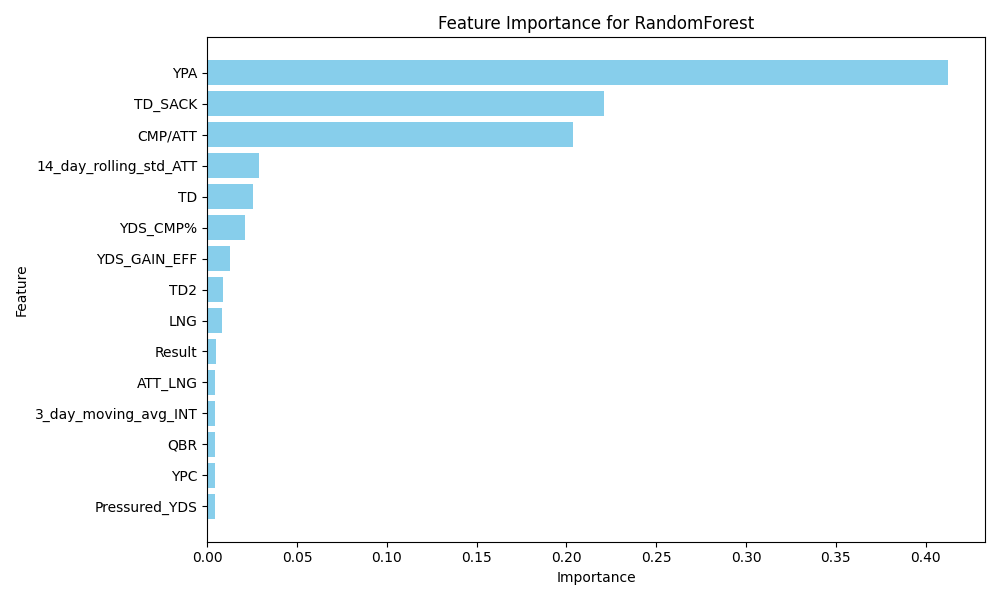
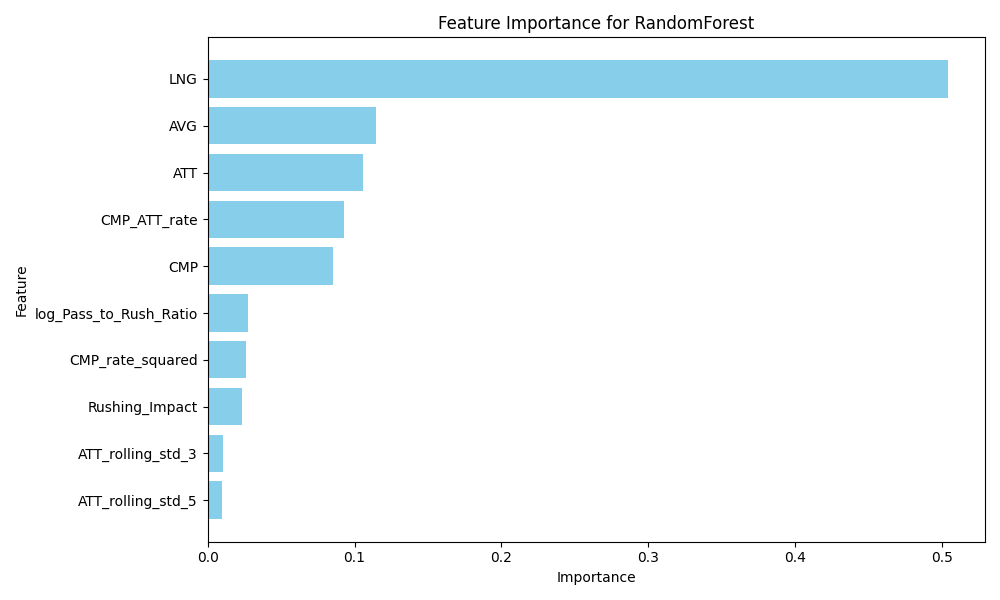
Created QB specific features, further refined xgboost Model

diff --git a/src/model_selection.py b/src/model_selection.py
@@ -4,14 +4,16 @@ import numpy as np
 import matplotlib.pyplot as plt
 
 from sklearn.ensemble import RandomForestRegressor
+from sklearn.feature_selection import RFE
 from sklearn.metrics import mean_squared_error, r2_score, accuracy_score
 from sklearn.model_selection import train_test_split
 from sklearn.preprocessing import StandardScaler
 import joblib
-from src.features import engineer_features
+
+# feature imports
+from src.features.qb_features.yds import add_passing_yds_features
 
 # model imports
-from src.models.linear_regression import train_linear_regression
 from src.models.random_forest import train_random_forest
 from src.models.xgboost import train_xgboost
 
@@ -30,21 +32,28 @@ def preprocess_data(df, target_stat):
     # Removes Data Column but saves it for use in visualization
     date_col = df['Date']
 
-    df = engineer_features(df, target_stat)
+    df['Date'] = pd.to_datetime(df['Date'])
+
+    # Extract date-related features
+    #df['day_of_week'] = df['Date'].dt.dayofweek  # Day of the week (Monday = 0, Sunday = 6)         # Month of the game
+    df['is_weekend'] = df['Date'].dt.dayofweek >= 5  # Boolean for weekend games
+    df['days_since_last_game'] = (df['Date'] - df['Date'].shift(1)).dt.days.fillna(0)  # Time gap between games
+
+    df = add_passing_yds_features(df)
 
     # Drop irrelevant columns
-    df = df.drop(['OPP', 'Date'], axis=1)
-
+    df = df.drop(['Date'], axis=1)
+    
     # Drop rows with NaN values generated by rolling and shifting operations
     df = df.dropna()
-
-    # Handle any remaining infinite or very large values
-    df = df.replace([np.inf, -np.inf], np.nan)  # Replace inf values with NaN
-    df = df.fillna(method='ffill').fillna(method='bfill')
 
     # Target variable and feature columns
     X = df.drop(target_stat, axis=1)
     y = df[target_stat]
+
+    mean = y.mean()
+
+    feature_names = X.columns
     
      # Log transformation for the YDS stat
     if target_stat == 'YDS' or target_stat == 'YDS2':
@@ -54,15 +63,23 @@ def preprocess_data(df, target_stat):
     scaler = StandardScaler()
     X_scaled = scaler.fit_transform(X)
 
+    # Apply Recursive Feature Elimination (RFE) to select top `num_features`
+    rfe_model = RandomForestRegressor()  # You can use another estimator like XGBRegressor
+    rfe = RFE(estimator=rfe_model, n_features_to_select=10)
+    X_rfe = rfe.fit_transform(X_scaled, y)
+
+    # Get the feature names that were selected by RFE
+    selected_feature_names = feature_names[rfe.support_]
+
     # Train-test split
-    X_train, X_test, y_train, y_test = train_test_split(X_scaled, y, test_size=0.3, shuffle=False, random_state=42)
+    X_train, X_test, y_train, y_test = train_test_split(X_rfe, y, test_size=0.3, shuffle=False, random_state=42)
 
      # Debugging: Print feature names and shapes before fitting
     # print(f"Number of features in X_train: {X_train.shape[1]}")
     # print(f"Number of features in X_test: {X_test.shape[1]}")
     # print(f"Feature names: {X.columns}")
 
-    return X_train, X_test, y_train, y_test, scaler, date_col
+    return X_train, X_test, y_train, y_test, scaler, date_col, mean, rfe, selected_feature_names
 
 
 def predict_next_game_for_all_models(models, X_last_game, scaler, target_stat):
@@ -75,6 +92,8 @@ def predict_next_game_for_all_models(models, X_last_game, scaler, target_stat):
     """
     print("\n---------------------------------------")
     print("Predicting next game's target stat for each model:")
+
+    X_next_game = X_last_game
 
     for model_name, model in models.items():
         try:
@@ -90,7 +109,7 @@ def predict_next_game_for_all_models(models, X_last_game, scaler, target_stat):
     print("\n---------------------------------------")
 
 
-def evaluate_model(model, X_test, y_test, target_stat):
+def evaluate_model(model, X_test, y_test, target_stat, mean):
     try:
         y_pred = model.predict(X_test)
 
@@ -106,17 +125,6 @@ def evaluate_model(model, X_test, y_test, target_stat):
         if len(y_pred) != len(y_test):
             raise ValueError(f"Length mismatch: y_pred has {len(y_pred)} elements, y_test has {len(y_test)} elements")
 
-
-        # # Print predictions vs actual values
-        # print("Predicted vs Actual values:")
-        # for i in range(len(y_test)):
-        #     try:
-        #         print(f"Loop Iteration {i}")
-        #         print(f"Predicted: {y_pred[i]}, Actual: {y_test.iloc[i]}")  # Use .iloc for proper indexing
-        #     except Exception as loop_error:
-        #         print(f"Error during loop iteration {i}: {loop_error}")
-
-        # Calculate accuracy by comparing rounded predictions to actual values
         try:
             accuracy = accuracy_score(y_test.astype(int), np.round(y_pred).astype(int))
             print(f"\nAccuracy: {accuracy * 100:.2f}%")
@@ -134,6 +142,8 @@ def evaluate_model(model, X_test, y_test, target_stat):
         try:
             rmse = np.sqrt(mse)
             print(f"Root Mean Squared Error (RMSE): {rmse}")
+            print("Percent Error: ", (rmse/mean) * 100)
+
         except Exception as e:
             print(f"Error calculating RMSE: {e}")
 
@@ -151,21 +161,19 @@ def test_model_performance(player_id, target_stat):
     data_file_path = os.path.join('data', 'processed', f'player_{player_id}_clean.csv')
     df = pd.read_csv(data_file_path)
 
-    X_train, X_test, y_train, y_test, scaler, date_col = preprocess_data(df, target_stat)
+    X_train, X_test, y_train, y_test, scaler, date_col, mean, rfe, selected_feature_names = preprocess_data(df, target_stat)
 
     # Train and evaluate multiple models
     models = {
         'RandomForest': train_random_forest(X_train, y_train),
         'XGBoost': train_xgboost(X_train, y_train),
-        'LinearRegression': train_linear_regression(X_train, y_train)
     }
 
-    feature_names = df.drop(target_stat, axis=1).columns
 
     for model_name, model in models.items():
         print('\n---------------------------------------')
         print(f"Evaluating {model_name}...")
-        evaluate_model(model, X_test, y_test, target_stat)
+        evaluate_model(model, X_test, y_test, target_stat, mean)
     
         if hasattr(model, 'feature_importances_'):
             print(f"Plotting feature importances for {model_name}")
@@ -174,11 +182,11 @@ def test_model_performance(player_id, target_stat):
             importances = model.feature_importances_
             sorted_indices = np.argsort(importances)[::-1]
             # Select the top N indices
-            top_indices = sorted_indices[:15]
+            top_indices = sorted_indices[:25]
 
             # Use these indices to get the top N feature names and their importances
             top_features = pd.DataFrame({
-                'Feature': np.array(feature_names)[top_indices],
+                'Feature': np.array(selected_feature_names)[top_indices],
                 'Importance': importances[top_indices]
             })
 
@@ -198,6 +206,6 @@ def test_model_performance(player_id, target_stat):
 
             plt.close() 
 
-    # Predict the next game using the most recent game's features
-    X_last_game = X_test[-1].reshape(1, -1)
-    predict_next_game_for_all_models(models, X_last_game, scaler, target_stat)
+    # Predict the next game using the average of the last 3 games
+    X_next_game = np.mean(X_test[-5:], axis=0).reshape(1, -1) 
+    predict_next_game_for_all_models(models, X_next_game, scaler, target_stat)

diff --git a/src/features/qb_features/yds.py b/src/features/qb_features/yds.py
@@ -1,0 +1,56 @@
+import numpy as np
+
+
+def add_passing_yds_features(df):
+
+    # Completion ratio (CMP / ATT)
+    df['CMP_rate'] = df['CMP'] / df['ATT']
+    df['CMP_ATT_rate'] = df['CMP_rate'] * df['ATT']
+    df['CMP_rate_squared'] = df['CMP_rate'] ** 2
+
+    # Calculate the rate of change (difference) in passer rating between games
+    df['RTG_change'] = df['RTG'].diff().fillna(0)
+
+    
+    # Touchdown to attempt ratio (TD / ATT)
+    #df['TD_to_ATT'] = df['TD'] / df['ATT']
+
+    # Number of completions resulted in touchdown
+    df['TD Efficiency'] = df['TD'] / df['CMP']
+    
+    df['INT_Efficiency'] = df['INT'] / df['CMP']
+
+    # Interception to attempt ratio (INT / ATT)
+    df['INT_to_ATT'] = df['INT'] / df['ATT']
+
+    # Sack rate (SACK / ATT)
+    #df['SACK_rate'] = df['SACK'] / df['ATT']
+
+    # Sack to completion ratio - high ratio = struggle under pressure
+    df['SACK_to_CMP'] = df['SACK'] / df['CMP']
+
+    # Pass-to-Rush Ratio
+    df['log_Pass_to_Rush_Ratio'] = np.log1p(df['ATT'] / df['CAR'])
+    df['Rushing_Impact'] = df['YDS2'] / df['ATT']
+    df['log_Rushing_Impact'] = np.log1p(df['YDS2'] / df['ATT'])
+
+    df['ATT_Rushing_Impact_interaction'] = df['ATT'] * df['Rushing_Impact']
+
+
+    # Rolling means for ATT (pass attempts) over 3 and 5 games (no leakage)
+    df['ATT_rolling_mean_3'] = df['ATT'].rolling(window=3).mean()
+    df['ATT_rolling_mean_5'] = df['ATT'].rolling(window=5).mean()
+
+    df['ATT_rolling_std_3'] = df['ATT'].rolling(window=3).std()
+    df['ATT_rolling_std_5'] = df['ATT'].rolling(window=3).std()
+
+
+    # Rolling means for completion rate over 3 and 5 games (no leakage)
+    df['CMP_rate_rolling_mean_3'] = df['CMP_rate'].rolling(window=3).mean()
+    df['CMP_rate_rolling_mean_5'] = df['CMP_rate'].rolling(window=5).mean()
+
+    df.drop(['TD'], axis=1)
+    # Fill any NaN values that might arise from rolling windows
+    df.fillna(0, inplace=True)
+
+    return df

diff --git a/src/models/xgboost.py b/src/models/xgboost.py
@@ -20,13 +20,16 @@ def train_xgboost(X_train, y_train):
     # Initialize XGBRegressor
     xgboost_model = XGBRegressor(random_state=42)
 
+    # Define TimeSeriesSplit for sequential data
+    tscv = TimeSeriesSplit(n_splits=5)
+
     # Set up RandomizedSearchCV
     random_search = RandomizedSearchCV(
         estimator=xgboost_model,
         param_distributions=param_dist,
-        n_iter=50,           # Number of parameter settings to sample
+        n_iter=500,           # Number of parameter settings to sample
         scoring='neg_mean_squared_error',  # Performance metric
-        cv=3,                # Cross-validation folds
+        cv=tscv,                # Cross-validation folds
         verbose=1,
         n_jobs=-1,           # Use all available CPU cores
         random_state=42
